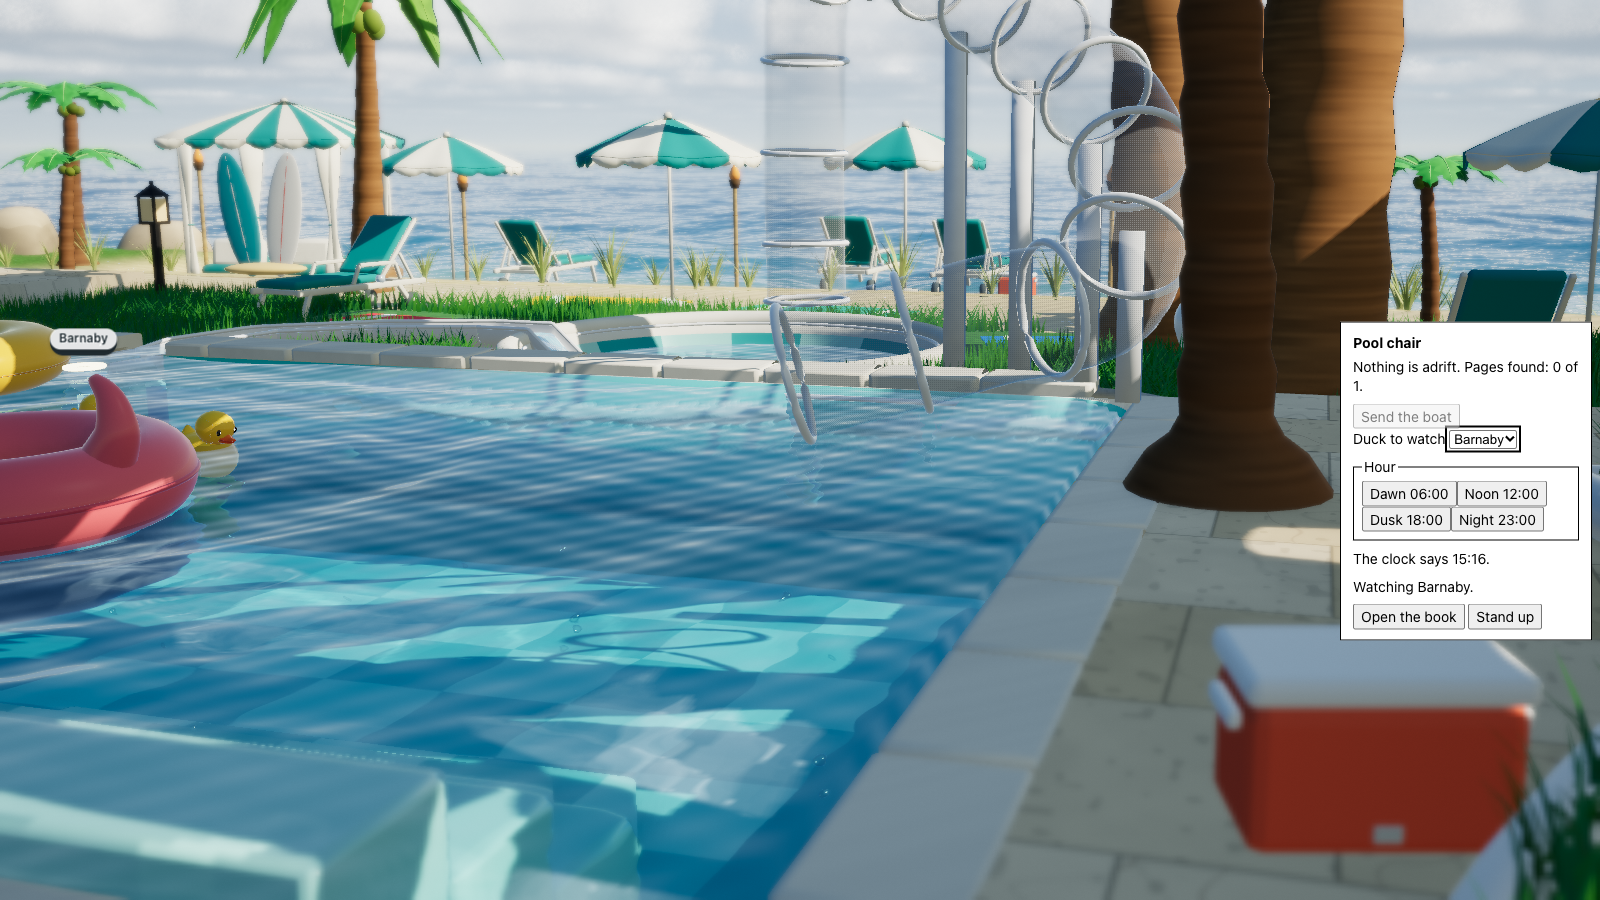
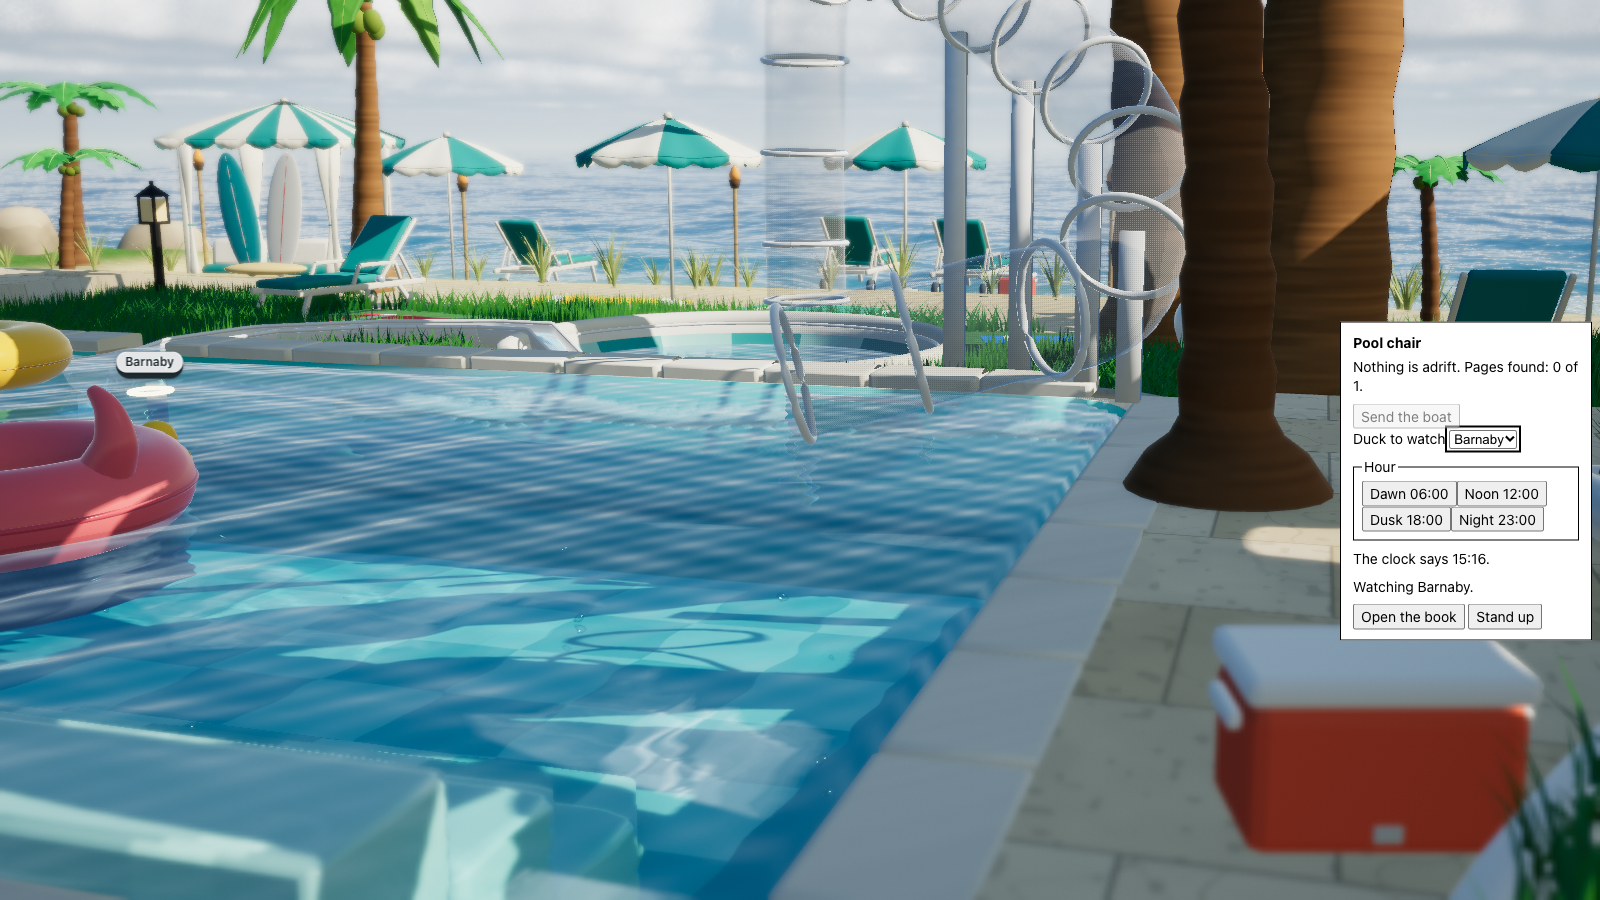
fix(rubber-duck-pool): story 004 review fixes from Sol
A selection that is not a live duck (an object from before a reset,
selected again) left the menu on No duck while world.selected still
pointed at it, and removeDuck then took the newest duck off the list
but left its body in the physics. The page's choices adapter now clears
such a selection, and removeDuck clears it before choosing what to
remove (a node test failed first, then passed).

After the boat refused, the menu's frame() returned early while the
refusal stayed on screen, so an hour pressed then moved the world but
not the clock or its status line (seen on the old build: world 18:00,
menu 16:01). Keeping the refusal now applies to the boat's line only.

The duck list keeps the option of each duck still there instead of
replacing them all; a changed label of the watched duck is announced
again; aria-disabled and the panel's transform are written only when
they change. The pool-seat-choices drive gains a check for each, and
for focus back on the scene after Escape and Stand up; it fails on the
old code and passes now, at desktop and phone size.

diff --git a/.claude/skills/verify/drive/pool-seat-choices.js b/.claude/skills/verify/drive/pool-seat-choices.js
@@ -4,7 +4,10 @@
 // moving. A duck picked in the scene (the hook's select) shows in the menu; removing the watched duck leaves no selection
 // and says so. A click on an hour button, and Enter on another, set the world clock (world.setHour) and the lit scene
 // follows (the hook's light()); the clock keeps running, a pile of presets earns no Around-the-sun stamp, W pressed on a
-// control moves nothing, and Escape and Stand up still leave the seat with focus back. Start from an empty store.
+// control moves nothing, and Escape and Stand up still leave the seat with focus back on the scene. Also: a duck arriving
+// keeps the chosen option, a renamed watched duck is announced again, a stale selection is cleared in the world and the
+// menu (and remove never takes the wrong duck), the menu writes nothing while nothing changes, and after the boat
+// refuses, the rest of the menu still follows the world. Start from an empty store.
 // window.__shot = 'choices' stops with the duck chosen (for its screenshot); 'hour' stops with Night chosen.
 (async () => {
   const h = window.__pool, W = h.world, $ = (s) => document.querySelector(s), wait = (ms) => new Promise((r) => setTimeout(r, ms))
@@ -56,17 +59,39 @@
   if (select.value !== String(W.ducks[other].id) || note() !== `Watching ${names[other + 1]}.`) fail(`a duck picked in the scene is not shown: "${select.value}", "${note()}"`)
   out.push({ by: 'picked in the scene', shows: select.selectedOptions[0].textContent })
 
-  const gone = W.selected.id
+  const kept = select.selectedOptions[0], count = select.options.length   // a duck arriving keeps the chosen option where it is
+  h.add(1); for (let i = 0; i < 30 && select.options.length === count; i++) { h.step(120); await frame() }
+  if (select.options.length !== count + 1 || select.selectedOptions[0] !== kept || !kept.isConnected) fail(`a duck arriving replaced the chosen option: ${select.options.length} options, kept ${kept.isConnected}`)
+  W.selected.name = 'Renamed'; await frame(); await frame()   // its label changes, the announcement follows
+  if (note() !== 'Watching Renamed.' || kept.textContent !== 'Renamed') fail(`a changed label is not announced: "${note()}", "${kept.textContent}"`)
+  out.push({ by: 'list changes', kept: true, note: note() })
+
+  const gone = W.selected.id, goneDuck = W.selected
   h.remove(); await frame(); await frame()
   if (W.selected !== null || select.value !== '' || [...select.options].some((o) => o.value === String(gone))) fail(`removing the watched duck left a stale choice: ${W.selected?.id}, "${select.value}"`)
   if (note() !== 'The duck you were watching has left.') fail(`the loss is not announced: "${note()}"`)
   if (h.seating.state.phase !== 'seated' || !panel.open) fail('removing the duck changed the seat')
   out.push({ by: 'removed', note: note(), options: select.options.length })
+  W.selected = goneDuck; await frame(); await frame()   // a duck that is gone, selected again: no selection anywhere
+  if (W.selected !== null || select.value !== '') fail(`a stale selection stayed: world ${W.selected?.id}, menu "${select.value}"`)
+  const lastDuck = W.ducks[W.ducks.length - 1], n = W.ducks.length
+  W.selected = goneDuck; h.remove(); await frame()
+  if (W.ducks.length !== n - 1 || W.ducks.includes(lastDuck) || W.floaters.bodies.includes(lastDuck.body)) fail('with a stale selection, remove took the wrong duck or left its body')
+  out.push({ by: 'stale selection', cleared: true })
 
   const hr = (id) => buttons.find((b) => b.dataset.hour === id), dusk = hr('dusk'), night = hr('night'), dawn = hr('dawn'), noon = hr('noon')
   if (!dusk || !night || !dawn || !noon) fail('the dawn, noon, dusk and night buttons are not all there')
   const before = h.light(), day = h.state().hour
-  await input({ click: at(dusk) })
+  h.clock(false); let writes = 0; const watch = new MutationObserver((r) => { writes += r.length })   // with the clock stopped nothing on the panel changes
+  watch.observe(panel, { subtree: true, childList: true, attributes: true, characterData: true }); for (let i = 0; i < 10; i++) await frame(); watch.disconnect(); h.clock(true)
+  if (writes) fail(`the seated menu wrote to the page ${writes} times while nothing changed`)
+  const bottle = () => W.collectibles.list.find((c) => c.id === 'bottle-first')
+  for (let i = 0; i < 60 && bottle().state !== 'adrift'; i++) { h.step(120); if (i % 5 === 4) await frame() }
+  const real = W.sendBoat; W.sendBoat = () => false   // the boat refuses (as with no water route)
+  await frame(); await input({ click: at($('.seat-ui .seat-send')) })
+  const refusal = $('.seat-ui .seat-boat').textContent
+  await input({ click: at(dusk) }); W.sendBoat = real
+  if (bottle().state !== 'adrift' || refusal !== 'The boat cannot get there just now.') fail(`no refusal to keep: ${bottle().state}, "${refusal}"`)
   const evening = { hour: h.state().hour, light: h.light() }
   if (Math.abs(evening.hour - 18) > 0.1 || clock() !== `The clock says ${hhmm(W.day.hour)}.` || hourNote() !== 'The hour is now 18:00.') fail(`Dusk did not set 18:00: ${evening.hour}, "${clock()}", "${hourNote()}"`)
   if (!W.day.run) fail('choosing an hour stopped the clock')
@@ -91,14 +116,14 @@
   select.focus(); await input({ down: 'w' }); await wait(300); await input({ up: 'w' }, { key: 'r' })
   dusk.focus(); await input({ down: 'w' }); await wait(300); await input({ up: 'w' }, { key: 'r' })
   if (moved(still) || h.seating.state.phase !== 'seated') fail(`W or R on a control reached the world: ${h.seating.state.phase}`)
+  const canvas = $('canvas')   // seated by the hook, not by a button: focus goes back to the scene
   select.focus(); await input({ key: 'Escape' })
-  if (h.seating.state.phase !== 'standing' || panel.open) fail(`Escape on the select did not stand up: ${h.seating.state.phase}`)
-  const back = document.activeElement
-  out.push({ by: 'Escape', phase: h.seating.state.phase, focus: back.textContent.trim() || back.tagName })
+  if (h.seating.state.phase !== 'standing' || panel.open || document.activeElement !== canvas) fail(`Escape on the select did not stand up with focus on the scene: ${h.seating.state.phase}, "${document.activeElement.tagName}"`)
+  out.push({ by: 'Escape', phase: h.seating.state.phase, focus: document.activeElement.tagName })
 
   h.sit(0); await wait(1600)
   $('.seat-ui .seat-up').focus(); await input({ key: 'Enter' })
-  if (h.seating.state.phase !== 'standing' || panel.open || document.activeElement === document.body) fail(`Stand up did not leave with focus kept: ${h.seating.state.phase}, "${document.activeElement.tagName}"`)
+  if (h.seating.state.phase !== 'standing' || panel.open || document.activeElement !== canvas) fail(`Stand up did not leave with focus on the scene: ${h.seating.state.phase}, "${document.activeElement.tagName}"`)
   out.push({ by: 'Stand up', phase: h.seating.state.phase })
   return JSON.stringify(out)
 })()

diff --git a/projects/rubber-duck-pool/src/pool/seat-menu.js b/projects/rubber-duck-pool/src/pool/seat-menu.js
@@ -31,7 +31,7 @@ export function createSeatMenu({ root, seats, seating, toPx, fallback, boat, cho
   ui.className = 'seat-ui';
   ui.innerHTML = `<style>${CSS}</style><dialog aria-labelledby="seat-name"><h2 id="seat-name"></h2>
 <p class="seat-boat" role="status" aria-live="polite"></p><button type="button" class="seat-send" aria-disabled="true">Send the boat</button>
-<label>Duck to watch <select class="seat-duck"></select></label>
+<label>Duck to watch <select class="seat-duck"><option value="">No duck</option></select></label>
 <fieldset class="seat-hours"><legend>Hour</legend></fieldset>
 <p class="seat-clock"></p><p class="seat-hour-note" role="status" aria-live="polite"></p>
 <p class="seat-note" role="status" aria-live="polite"></p>
@@ -41,7 +41,7 @@ export function createSeatMenu({ root, seats, seating, toPx, fallback, boat, cho
   const send = ui.querySelector('.seat-send'), report = ui.querySelector('.seat-boat'), openBook = ui.querySelector('.seat-book');
   const duck = ui.querySelector('.seat-duck'), hours = ui.querySelector('.seat-hours'), clock = ui.querySelector('.seat-clock'), note = ui.querySelector('.seat-note'), hourNote = ui.querySelector('.seat-hour-note');
   let said = '', can = false, refused = false, was = '';
-  let options = '', watching, told = '', clockSaid = '', spoke = '', hourTold = '', hourSpoke = '', touched = true;   // what the controls show now (written only when it changes)
+  let options = '', watching, watchedAs, told = '', clockSaid = '', spoke = '', hourTold = '', hourSpoke = '', moved = '', touched = true;   // what the controls show now (written only when it changes)
   let shown = null, opener = null, via = null, size = [0, 0];
   seats.forEach((s, i) => {
     const b = document.createElement('button');
@@ -63,9 +63,17 @@ export function createSeatMenu({ root, seats, seating, toPx, fallback, boat, cho
   on(duck, 'change', () => {
     const id = duck.value === '' ? null : Number(duck.value), label = duck.selectedOptions[0]?.textContent;
     if (!choices.chooseDuck(id)) { told = 'That duck has left.'; return; }
-    watching = id;
+    watching = id; watchedAs = id === null ? null : label;
     told = id === null ? 'Not watching a duck.' : `Watching ${label}.`;
   });
+  /** The list as the world's ducks are, keeping the option of each duck still there (a list the player has open keeps
+   * its items): only a duck that came or went, or a label that changed, touches the list. */
+  function keepOptions(list) {
+    const have = new Map([...duck.options].slice(1).map((o) => [o.value, o]));
+    const want = list.map((o) => { const el = have.get(String(o.id)) || new Option(o.label, String(o.id)); if (el.textContent !== o.label) el.textContent = o.label; return el; });
+    for (const [v, el] of have) if (!list.some((o) => String(o.id) === v)) el.remove();
+    want.forEach((el, i) => { if (duck.options[i + 1] !== el) duck.insertBefore(el, duck.options[i + 1] || null); });
+  }
   // aria-disabled, not disabled: a button that vanishes from the tab order while it has focus (the boat sets out as it
   // is pressed) would throw the keyboard back to the page
   // a send the boat refuses (no water route to something adrift) says so, until the state changes
@@ -98,20 +106,20 @@ export function createSeatMenu({ root, seats, seating, toPx, fallback, boat, cho
       if (shown === null) return;
       const b = boat.state(), text = `${b.out ? 'The boat is out.' : b.adrift ? 'Something is adrift.' : 'Nothing is adrift.'} Pages found: ${b.found} of ${b.total}.`;
       can = !b.out && b.adrift > 0;
-      if (refused && text === was) return;   // keep the refusal on screen while nothing has changed
-      refused = false; was = text;
-      if (text !== said) { said = text; report.textContent = text; }
-      send.setAttribute('aria-disabled', String(!can));
-      const c = choices.ducks(), list = c.options.map((o) => `${o.id}\t${o.label}`).join('\n');
-      if (list !== options) {
-        options = list; touched = true;
-        duck.replaceChildren(new Option('No duck', ''), ...c.options.map((o) => new Option(o.label, String(o.id))));
+      if (!refused || text !== was) {   // a refusal stays on screen while nothing has changed
+        refused = false; was = text;
+        if (text !== said) { said = text; report.textContent = text; touched = true; }
       }
+      const off = String(!can);
+      if (send.getAttribute('aria-disabled') !== off) send.setAttribute('aria-disabled', off);
+      const c = choices.ducks(), list = c.options.map((o) => `${o.id}\t${o.label}`).join('\n');
+      if (list !== options) { options = list; touched = true; keepOptions(c.options); }
       const value = c.value === null ? '' : String(c.value);
       if (duck.value !== value) duck.value = value;
-      if (c.value !== watching) {   // a duck tapped in the scene, or the one watched left
-        watching = c.value;
-        told = c.value === null ? '' : `Watching ${c.options.find((o) => o.id === c.value)?.label}.`;
+      const label = c.value === null ? null : c.options.find((o) => o.id === c.value)?.label;
+      if (c.value !== watching || label !== watchedAs) {   // a duck tapped in the scene, the one watched left, or its label changed
+        watching = c.value; watchedAs = label;
+        told = c.value === null ? '' : `Watching ${label}.`;
       }
       const time = `The clock says ${clockText(choices.hour())}.`, line = c.notice ?? told;
       if (time !== clockSaid) { clockSaid = time; clock.textContent = time; touched = true; }
@@ -120,7 +128,8 @@ export function createSeatMenu({ root, seats, seating, toPx, fallback, boat, cho
       if (touched) { size = [panel.offsetWidth, panel.offsetHeight]; touched = false; }   // where the panel hangs follows its size
       const s = seats[shown], p = toPx([s.side[0], s.y + LID, s.side[1]]) || [0, innerHeight];   // behind the eye: the bottom left
       const x = Math.max(8, Math.min(p[0] + 12, innerWidth - size[0] - 8)), y = Math.max(8, Math.min(p[1] - 12 - size[1], innerHeight - size[1] - 8));
-      panel.style.transform = `translate(${x.toFixed(1)}px, ${y.toFixed(1)}px)`;
+      const move = `translate(${x.toFixed(1)}px, ${y.toFixed(1)}px)`;
+      if (move !== moved) { moved = move; panel.style.transform = move; }
     },
   };
 }

diff --git a/projects/rubber-duck-pool/src/pool/index.js b/projects/rubber-duck-pool/src/pool/index.js
@@ -116,7 +116,11 @@ export async function mount(ctx) {
   // second copy of either; a choice moves no camera (the seat's eye stays)
   const duckChoice = createDuckChoice();
   const choices = {
-    ducks: () => duckChoice.view(world.ducks, world.selected),
+    ducks: () => {   // a selection that is not a live duck is no selection, in the world as in the menu
+      const v = duckChoice.view(world.ducks, world.selected);
+      if (world.selected && v.value === null) world.selected = null;
+      return v;
+    },
     chooseDuck: (id) => { if (id === null) duckChoice.forget(); return chooseDuck(world, id); },
     chooseHour: (id) => chooseHour(world, id),
     hour: () => world.day.hour,

diff --git a/projects/rubber-duck-pool/src/pool/world.js b/projects/rubber-duck-pool/src/pool/world.js
@@ -152,6 +152,7 @@ export function createWorld(opts = {}) {
   W.addDucks = (n = 1) => { const k = Math.max(0, Math.min(n, MAX_DUCKS - W.ducks.length - queue)); queue += k; return k; };
   /** Take a duck away: the one picked last, or the newest. */
   W.removeDuck = () => {
+    if (!W.ducks.includes(W.selected)) W.selected = null;   // a selection that is not a live duck picks nothing to remove
     const d = W.selected || W.ducks[W.ducks.length - 1];
     if (!d) return false;
     outOfRace(d);

diff --git a/projects/rubber-duck-pool/docs/improvements.md b/projects/rubber-duck-pool/docs/improvements.md
@@ -209,6 +209,7 @@ jelly의 14번(Pool Jelly)으로 만들었다가 기능이 많아져 따로 뺀 
 - [정함, 사용자 결정 대기] 시간 프리셋 네 개(6, 12, 18, 23시)와 이름, "지켜보기"를 이름표 하나로 보여 주는 방식(카메라를 오리 쪽으로 돌리지 않음), 오리가 시야 밖이면 이름표도 안 보임. 모두 가정이라 바꾸기 쉬운 자리(`HOURS`, `index.js`의 이름표 조건)에 있음.
 - [확인] `pool-seat-choices` 드라이브(진짜 입력): 이름 목록이 살아 있는 오리와 같고 이름이 겹치지 않음, 이름을 입력해 오리 고르기(`world.selected`·목록·이름표가 같은 오리, 카메라 그대로), 장면에서 고른 오리가 목록에 보임, 지켜보던 오리를 지우면 알림, 시간 단추를 클릭·Enter·Space로 눌러 세계 시계가 맞고 밝기(`light()`)가 따라감(정오 0, 해질녘 0.2, 밤 1), 시간을 여러 번 눌러도 "Around the sun" 도장이 없음, 컨트롤에서 W/R이 장면에 안 닿음, Esc와 Stand up이 일어서고 포커스가 돌아옴. 데스크톱과 폰 크기에서 통과, 메뉴가 창 안에 들어옴. 스크린샷 `production/qa/evidence/story-004-choose-duck-and-hour/seat-choices.png`, `seat-hour-scene.png`. 다른 풀 드라이브 12개 통과.
 - [참고] 오리 목록은 기본 `<select>`라 Mac Chrome에서 화살표 키는 목록 팝업을 엽니다(팝업은 브라우저의 것이라 스크립트로 못 눌러서 드라이브는 이름을 입력해 고름). 이름 입력(type-ahead)과 마우스, 터치는 그대로 동작.
+- [고침, Sol 검토] Sol(`gpt-6.1-sol`, medium)이 BLOCKING 둘, SHOULD FIX 넷을 냄. (1) 살아 있지 않은 오리 객체가 `world.selected`에 남으면 메뉴만 "No duck"이고 세계는 그 오리를 가리켰고, 그 상태로 `removeDuck`을 부르면 마지막 오리가 목록에서만 빠지고 몸은 물리에 남음. 옛 빌드에서 재현(세계 1, 메뉴 없음). 메뉴 연결부에서 그런 선택을 비우고, `removeDuck`이 살아 있지 않은 선택을 먼저 비우도록 고침(노드 테스트를 먼저 실패시킨 뒤 고침). (2) 보트가 거절한 뒤 그 문구가 남아 있는 동안 메뉴의 `frame()`이 통째로 일찍 끝나, 시간을 눌러도 시계와 안내가 멈춤. 옛 빌드에서 재현(세계 18:00, 메뉴 16:01). 거절 문구 유지는 보트 문구에만 적용하도록 고침. (3) 오리가 오가면 목록 옵션을 통째로 갈아 끼우던 것을, 있는 옵션은 그대로 두고 바뀐 것만 고치게 함. (4) 지켜보는 오리의 이름표기(예: "Pip (3)"→"Pip (2)")가 바뀌면 안내도 바뀜. (5) 아무것도 안 바뀌는 프레임에는 `aria-disabled`와 위치(transform)도 쓰지 않음. (6) 드라이브가 Esc와 Stand up 뒤 포커스가 장면(canvas)으로 가는지 확인. 드라이브에 각 경우의 확인을 더했고, 새 드라이브는 옛 코드에서 실패하고 새 코드에서 데스크톱과 폰 크기 모두 통과.
 
 ## 도감 보기 (스토리 3, 10-31)
 - [더함] 사용자가 "도감은 어디서 볼 수 있어?"라고 물어 스토리 3을 진행. 앉은 메뉴에 "Open the book" 단추(Send the boat와 Stand up 사이). 누르면 모달 창 "Book": 찾을 것마다 한 쪽, 찾기 전은 "Not found yet."(제목 숨김, `book-view.js` `SHOW_EMPTY_TITLE`), 찾은 뒤는 "First bottle / Found.". Previous/Next는 끝에서 멈춤(aria-disabled), 쪽 위치는 읽어 주는 영역에 "Page 1 of 1". Esc와 "Close the book"이 책만 닫고 포커스를 Open the book으로 돌림(일어나지 않음). 책이 열린 동안 키·포인터가 장면에 닿지 않음. 열린 채로 배가 병을 싣고 돌아오면 그 자리에서 채워짐.
